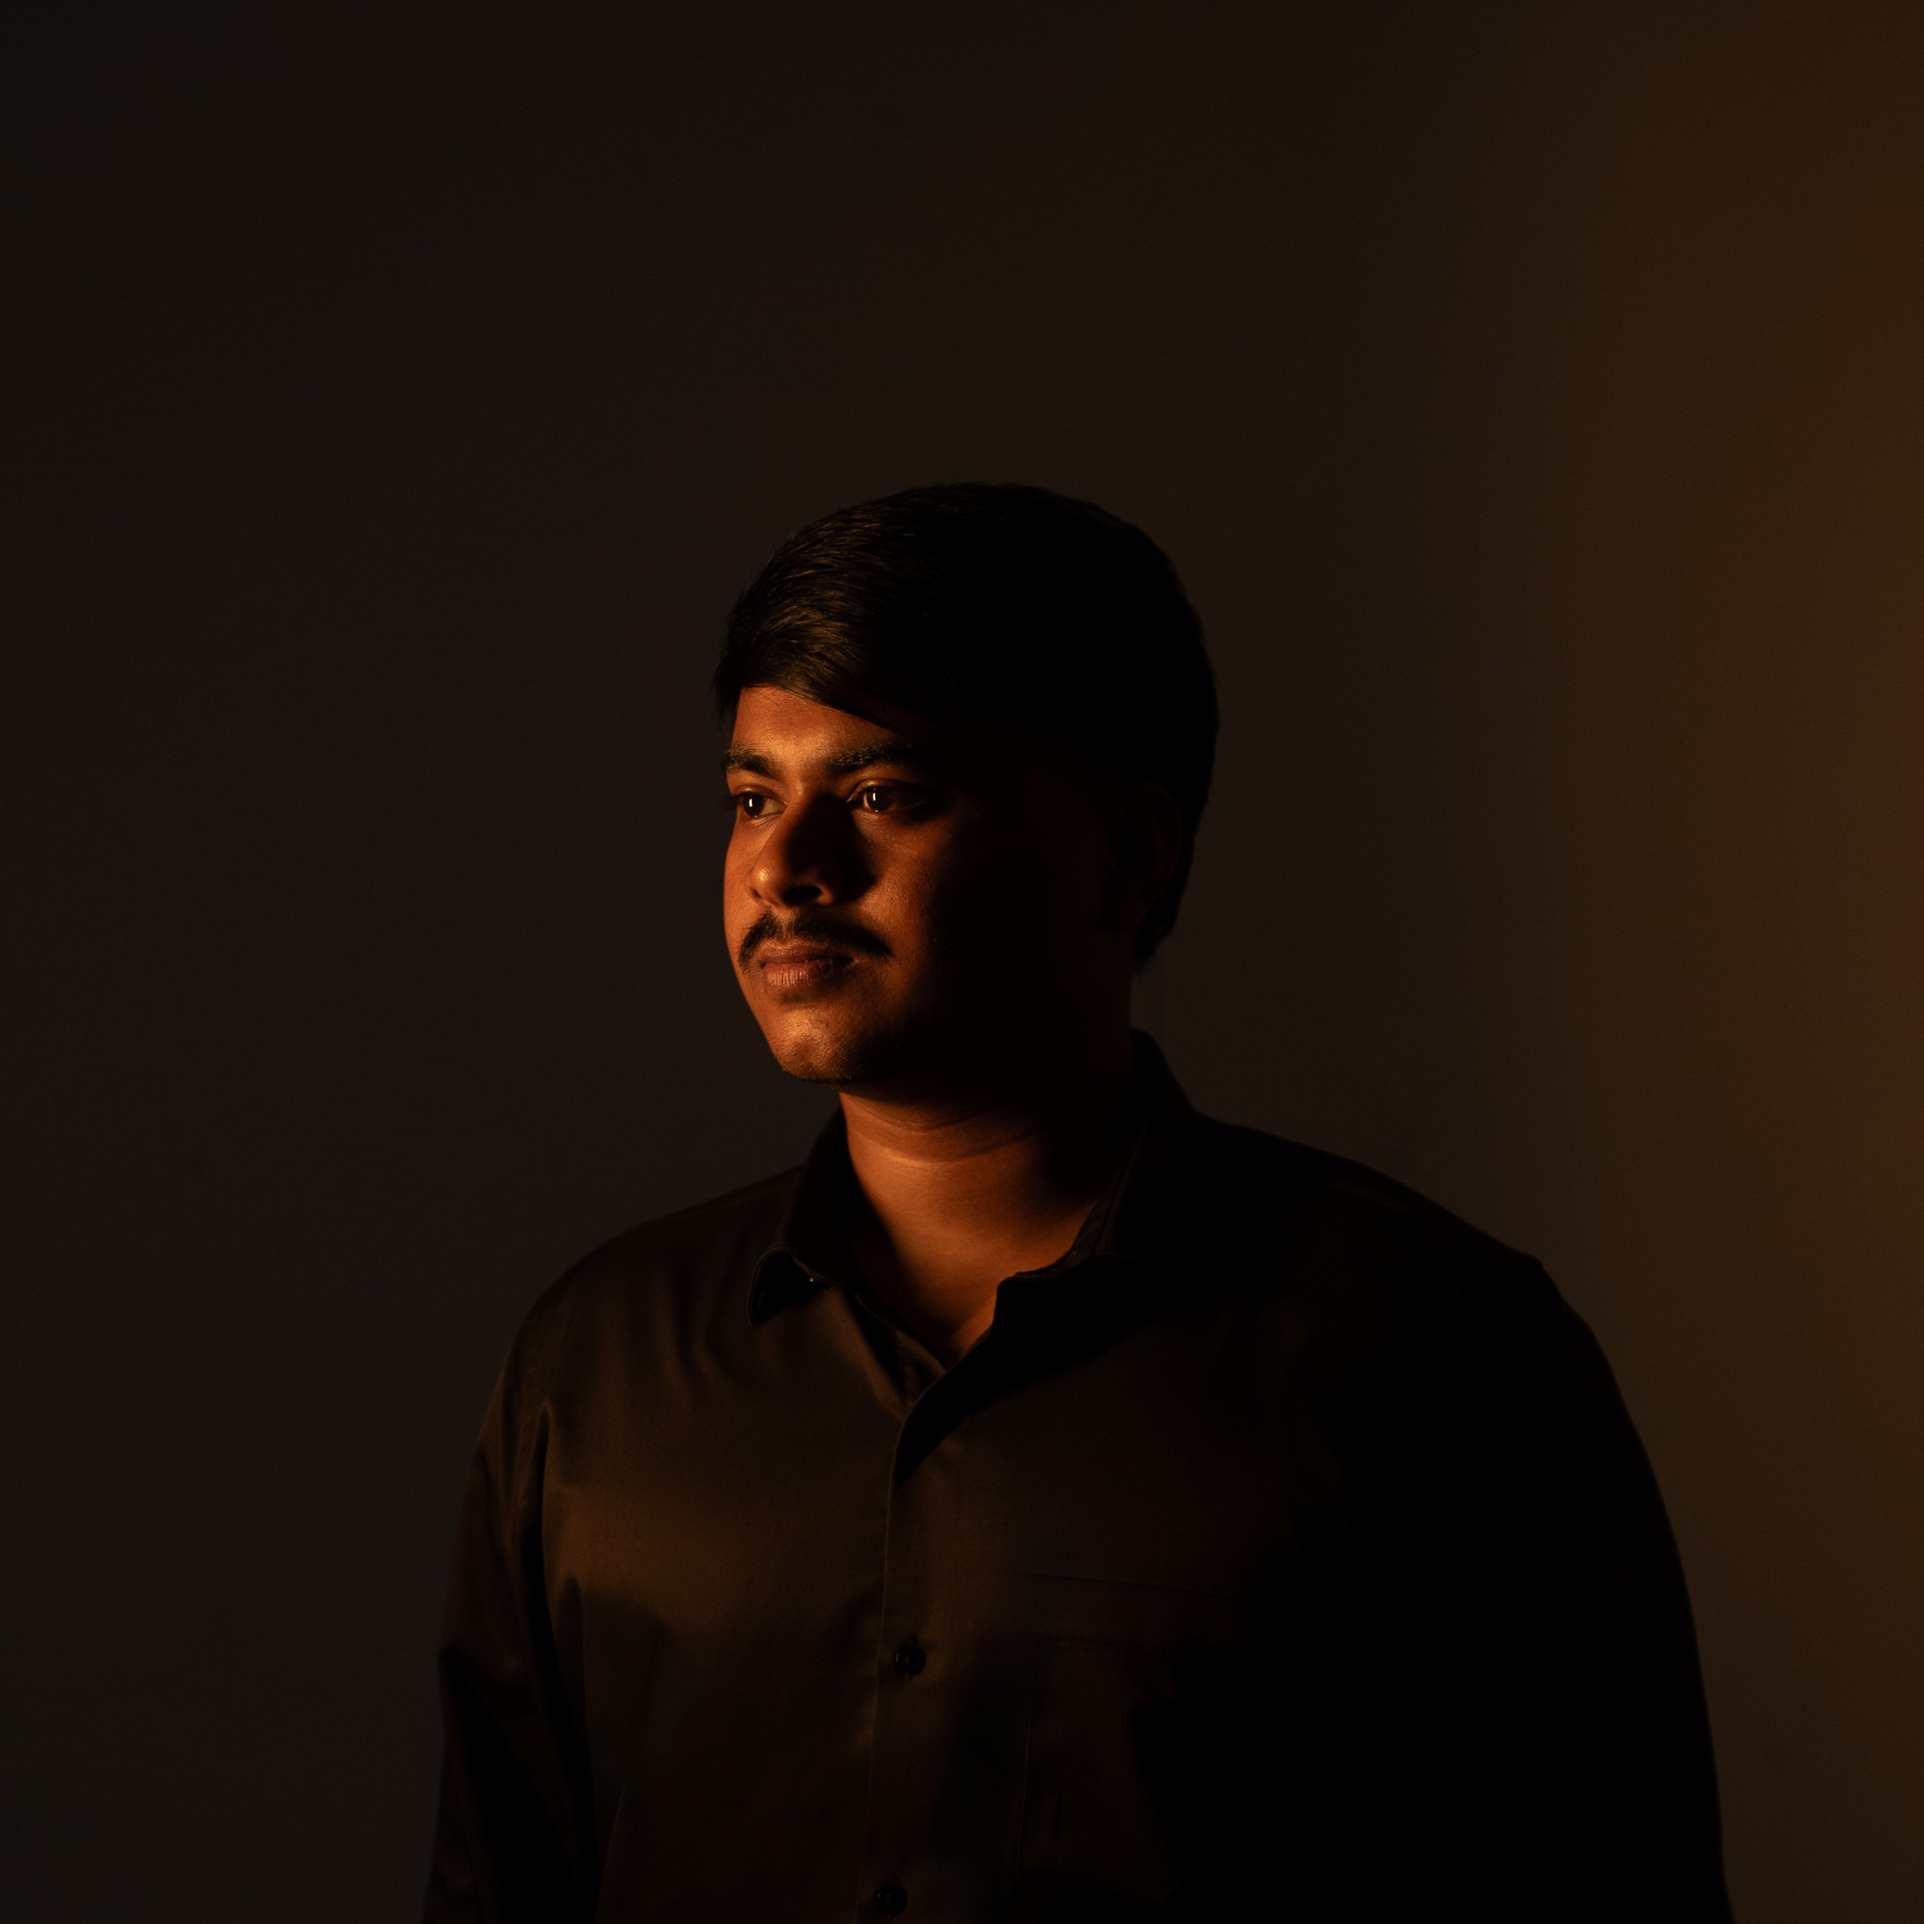
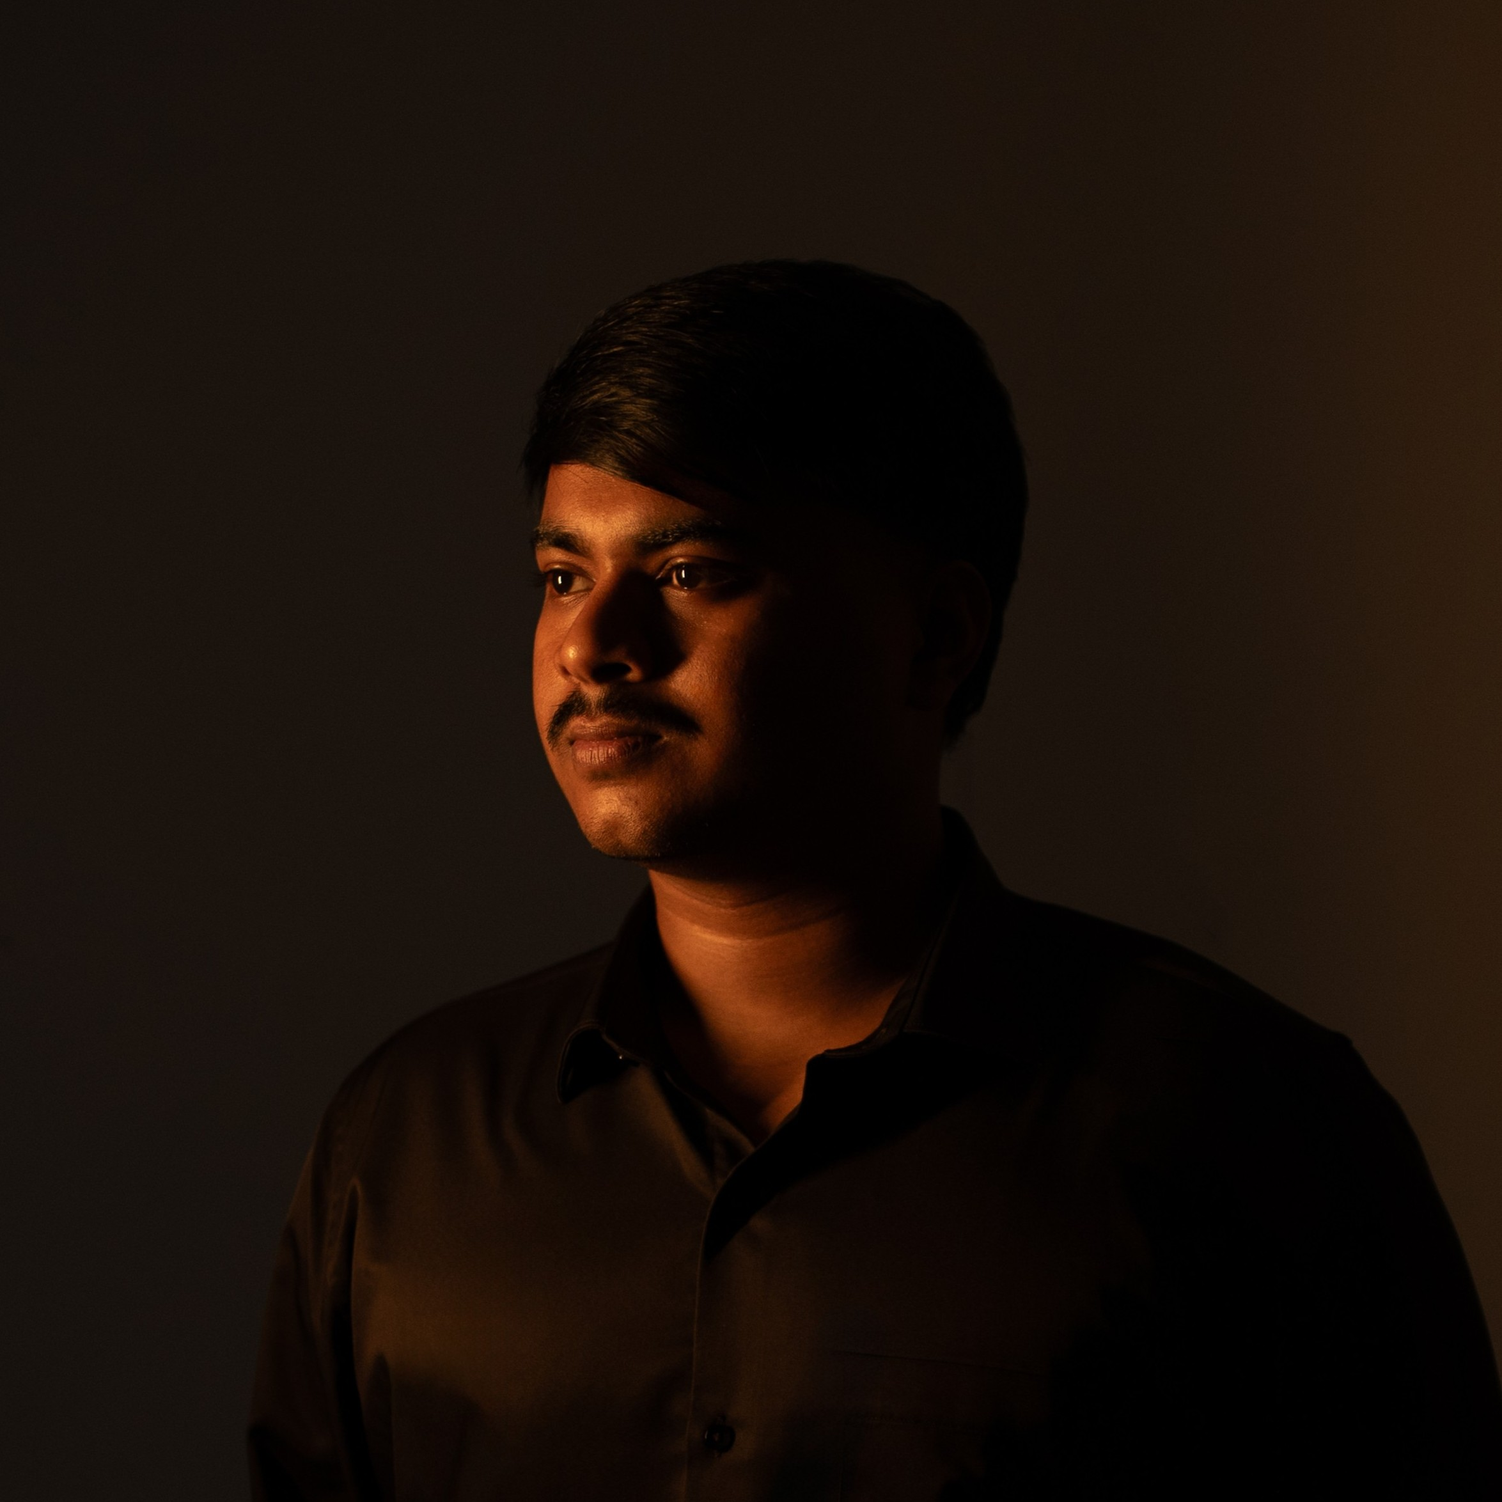
new

diff --git a/styles.css b/styles.css
@@ -776,7 +776,9 @@ body.about-page .site-wrapper {
 }
 
 #about-me .about-minimal-wrap {
-  max-width: 780px;
+  max-width: 1080px;
+  width: 100%;
+  margin: 0 auto;
 }
 
 #about-me.about-minimal h2 {
@@ -827,9 +829,138 @@ body.about-page .site-wrapper {
   margin-bottom: 0.3rem;
 }
 
+/* About page split layout (desktop) */
+#about-me .about-split {
+  display: grid;
+  grid-template-columns: minmax(0, 1.1fr) minmax(300px, 0.9fr);
+  grid-template-areas:
+    "left image"
+    "copy image"
+    "cards cards";
+  column-gap: clamp(3.6rem, 8vw, 6.4rem);
+  row-gap: 1.2rem;
+  align-items: start;
+}
+
+#about-me .about-left {
+  grid-area: left;
+  max-width: 560px;
+  display: grid;
+  gap: 0.55rem;
+  align-content: start;
+}
+
+#about-me .about-media {
+  grid-area: image;
+  position: relative;
+  align-self: start;
+  justify-self: end;
+  width: min(460px, 41vw);
+  padding: 10px;
+  border-radius: calc(var(--radius) + 6px);
+  background:
+    radial-gradient(120% 120% at 10% 10%, rgba(140,106,67,0.18), transparent 55%),
+    linear-gradient(135deg, rgba(255,255,255,0.7), rgba(255,255,255,0.35));
+  border: 1px solid rgba(140,106,67,0.12);
+  box-shadow:
+    0 0 0 1px rgba(140,106,67,0.08),
+    0 18px 40px rgba(45,40,34,0.12);
+  line-height: 0;
+}
+
+body.dark-mode #about-me .about-media {
+  background:
+    radial-gradient(120% 120% at 10% 10%, rgba(200,165,116,0.18), transparent 55%),
+    linear-gradient(135deg, rgba(255,255,255,0.06), rgba(255,255,255,0.02));
+  border-color: rgba(200,165,116,0.18);
+  box-shadow:
+    0 0 0 1px rgba(200,165,116,0.12),
+    0 20px 45px rgba(0,0,0,0.35);
+}
+
+#about-me .about-img {
+  width: 100%;
+  aspect-ratio: 1 / 1;
+  object-fit: cover;
+  border-radius: var(--radius);
+  border: 1px solid var(--input-border);
+  box-shadow: 0 20px 50px rgba(46,26,73,0.18);
+  display: block;
+}
+
+#about-me .about-main-copy {
+  grid-area: copy;
+  max-width: 560px;
+  margin-top: 0;
+}
+
+#about-me .about-split .panel {
+  grid-area: cards;
+  margin-top: clamp(1rem, 2vw, 1.6rem);
+  justify-content: flex-start;
+  gap: 1.2rem;
+}
+
+#about-me .info-card {
+  width: min(320px, 100%);
+}
+
+@media (min-width: 981px) {
+  #about-me .about-split .panel {
+    flex-wrap: nowrap;
+  }
+
+  #about-me .about-left {
+    margin-left: -28px;
+  }
+
+  #about-me .about-main-copy {
+    margin-left: -28px;
+    margin-top: -0.9rem;
+  }
+
+  #about-me .about-media {
+    transform: translateX(68px);
+  }
+}
+
+@media (max-width: 980px) {
+  #about-me .about-split {
+    grid-template-columns: 1fr;
+    grid-template-areas:
+      "left"
+      "image"
+      "copy"
+      "cards";
+    gap: 1.6rem;
+    row-gap: 1.6rem;
+  }
+
+  #about-me .about-left,
+  #about-me .about-main-copy {
+    max-width: 100%;
+    margin: 0;
+  }
+
+  #about-me .about-media {
+    width: 100%;
+    justify-self: stretch;
+    margin: 0;
+    padding: 8px;
+  }
+
+  #about-me .info-card {
+    width: 100%;
+  }
+
+  #about-me .about-img {
+    max-height: min(420px, 88vw);
+  }
+}
+
 #about-me .about-subline {
   color: var(--text-secondary);
-  font-size: clamp(1.34rem, 1.2rem + 0.5vw, 1.68rem);
+  font-size: clamp(1.26rem, 1.14rem + 0.45vw, 1.56rem);
   line-height: 1.58;
   letter-spacing: 0.005em;
   margin-bottom: 1.8rem;
@@ -837,7 +968,7 @@ body.about-page .site-wrapper {
 
 #about-me .about-main-copy {
   color: var(--text-primary);
-  font-size: clamp(1.18rem, 1.06rem + 0.36vw, 1.38rem);
+  font-size: clamp(1.08rem, 1rem + 0.32vw, 1.28rem);
   line-height: 1.68;
   letter-spacing: 0.003em;
   max-width: 72ch;
@@ -1017,8 +1148,8 @@ body.dark-mode .info-card img.info {
   display: flex;
   align-items: center;
   gap: 0.7rem;
-  min-height: 72px;
-  padding: 0.9rem 1.1rem;
+  min-height: 80px;
+  padding: 1.05rem 1.25rem;
   border-radius: 12px;
   background: var(--card);
   border: 1px solid var(--input-border);
@@ -1033,6 +1164,10 @@ body.dark-mode .info-card img.info {
   font-size: 1.16rem;
   letter-spacing: 0.008em;
   line-height: 1.35;
+}
+
+#skills .skill-chip .ai-text {
+  font-size: 1.08rem;
 }
 
 #skills .skill-icon {
@@ -2024,6 +2159,47 @@ nav .nav-links a,
 body.dark-mode #profile.home-hero .hero-avatar {
   box-shadow: 0 10px 30px rgba(0,0,0,0.18);
   border-color: rgba(200,165,116,0.35);
+}
+
+/* Home hero profile photo: warm, light-palette-tuned tone in light mode */
+#profile.home-hero .hero-pic {
+  filter: sepia(12%) saturate(110%) brightness(1.04) contrast(0.98);
+}
+
+#profile.home-hero .hero-avatar::before {
+  content: "";
+  position: absolute;
+  inset: 0;
+  background: rgba(226, 217, 206, 0.36);
+  mix-blend-mode: soft-light;
+  opacity: 0.65;
+  pointer-events: none;
+}
+
+#profile.home-hero .hero-avatar::after {
+  content: "";
+  position: absolute;
+  inset: 0;
+  background:
+    radial-gradient(circle at 45% 32%,
+      rgba(245,235,220,0.78) 0%,
+      rgba(245,235,220,0.28) 34%,
+      rgba(245,235,220,0) 62%);
+  mix-blend-mode: screen;
+  opacity: 0.85;
+  pointer-events: none;
+}
+
+body.dark-mode #profile.home-hero .hero-pic {
+  filter: none;
+}
+
+body.dark-mode #profile.home-hero .hero-avatar::before {
+  opacity: 0;
+}
+
+body.dark-mode #profile.home-hero .hero-avatar::after {
+  opacity: 0;
 }
 
 @media (max-width: 860px) {

diff --git a/about.html b/about.html
@@ -43,25 +43,34 @@
   <main class="site-wrapper">
     <section id="about-me" class="section about-minimal reveal">
       <div class="about-minimal-wrap">
-        <h2>About Me</h2>
-        <span class="about-accent" aria-hidden="true"></span>
-        <h3>Hi, I am Jagadish Das.</h3>
-        <p class="about-subline">I'm a creative technologist, video editor and cinematographer.</p>
-        <p class="about-main-copy">
-          I help teams and brands craft engaging visual stories through editing, color grading, motion design, and cinematic storytelling. I focus on clean pacing, emotion, and strong visual impact to make every project connect with its audience.
-        </p>
-        <div class="panel">
-          <div class="info-card reveal">
-            <img src="images/experience.png" alt="Experience Icon" class="info">
-            <h3>Experience</h3>
-            <p>5+ years</p>
-            <p>Video Editing</p>
+        <div class="about-split">
+          <div class="about-left">
+            <h2>About Me</h2>
+            <span class="about-accent" aria-hidden="true"></span>
+            <h3>Hi, I am Jagadish Das.</h3>
+            <p class="about-subline">I'm a creative technologist, video editor and cinematographer.</p>
           </div>
-          <div class="info-card reveal">
-            <img src="images/education.png" alt="Education Icon" class="info">
-            <h3>Education</h3>
-            <p>UG & PG</p>
-            <p>NIT Rourkela</p>
+
+          <div class="about-media">
+            <img src="images/about.jpeg" alt="Jagadish Das" class="about-img" loading="lazy" decoding="async">
+          </div>
+
+          <p class="about-main-copy">
+            I help teams and brands craft engaging visual stories through editing, color grading, motion design, and cinematic storytelling. I focus on clean pacing, emotion, and strong visual impact to make every project connect with its audience.
+          </p>
+          <div class="panel">
+            <div class="info-card reveal">
+              <img src="images/experience.png" alt="Experience Icon" class="info">
+              <h3>Experience</h3>
+              <p>5+ years</p>
+              <p>Video Editing</p>
+            </div>
+            <div class="info-card reveal">
+              <img src="images/education.png" alt="Education Icon" class="info">
+              <h3>Education</h3>
+              <p>UG & PG</p>
+              <p>NIT Rourkela</p>
+            </div>
           </div>
         </div>
       </div>

diff --git a/skills.html b/skills.html
@@ -109,7 +109,7 @@
           <div class="skills-grid">
             <article class="skill-chip">
               <img class="skill-icon" src="https://cdn-icons-png.flaticon.com/512/18337/18337835.png" alt="Artificial Intelligence">
-              <span>Artificial Intelligence</span>
+              <span class="skill-text ai-text">Artificial Intelligence</span>
             </article>
             <article class="skill-chip">
               <img class="skill-icon" src="https://cdn-icons-png.flaticon.com/512/9240/9240330.png" alt="Machine Learning">

diff --git a/index.html b/index.html
@@ -69,7 +69,7 @@
       <div class="hero-portrait reveal">
         <div class="portrait-ring" aria-hidden="true"></div>
         <div class="hero-avatar">
-          <img src="images/profile.jpg" alt="Jagadish Das" class="profile-pic hero-pic" fetchpriority="high" decoding="async">
+          <img src="images/profilepic.jpeg" alt="Jagadish Das" class="profile-pic hero-pic" fetchpriority="high" decoding="async">
         </div>
       </div>
     </div>
